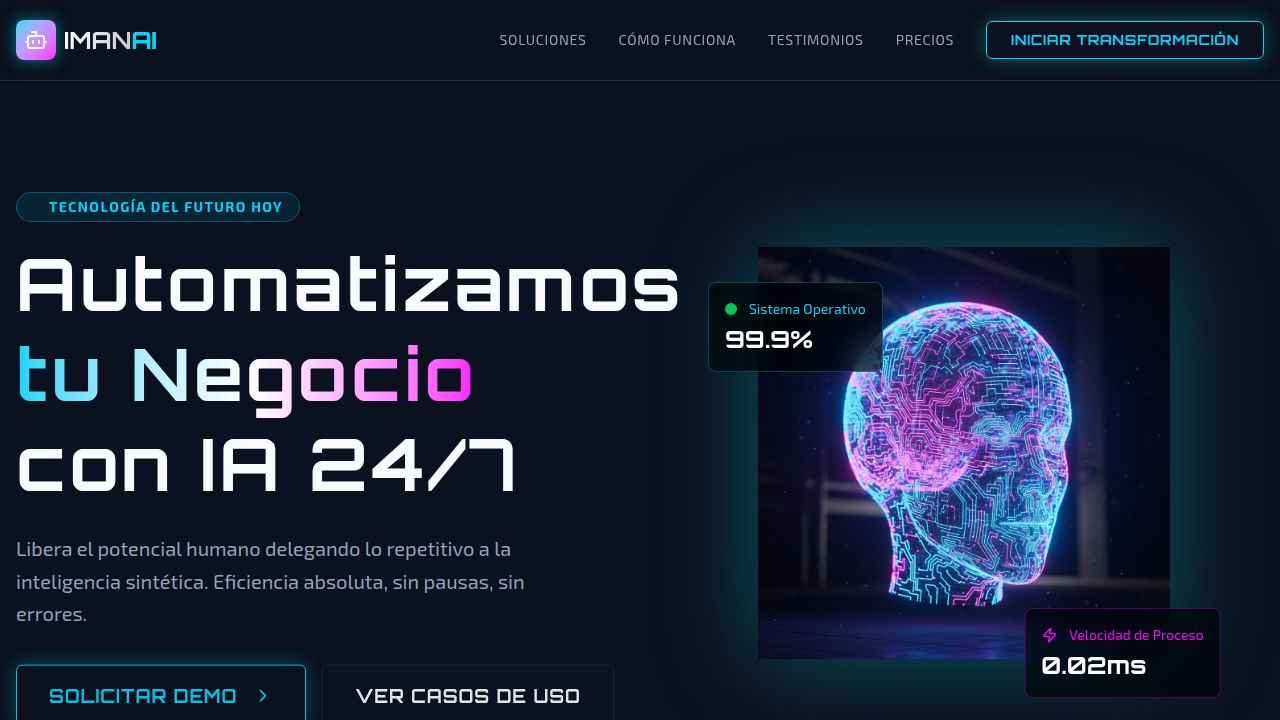
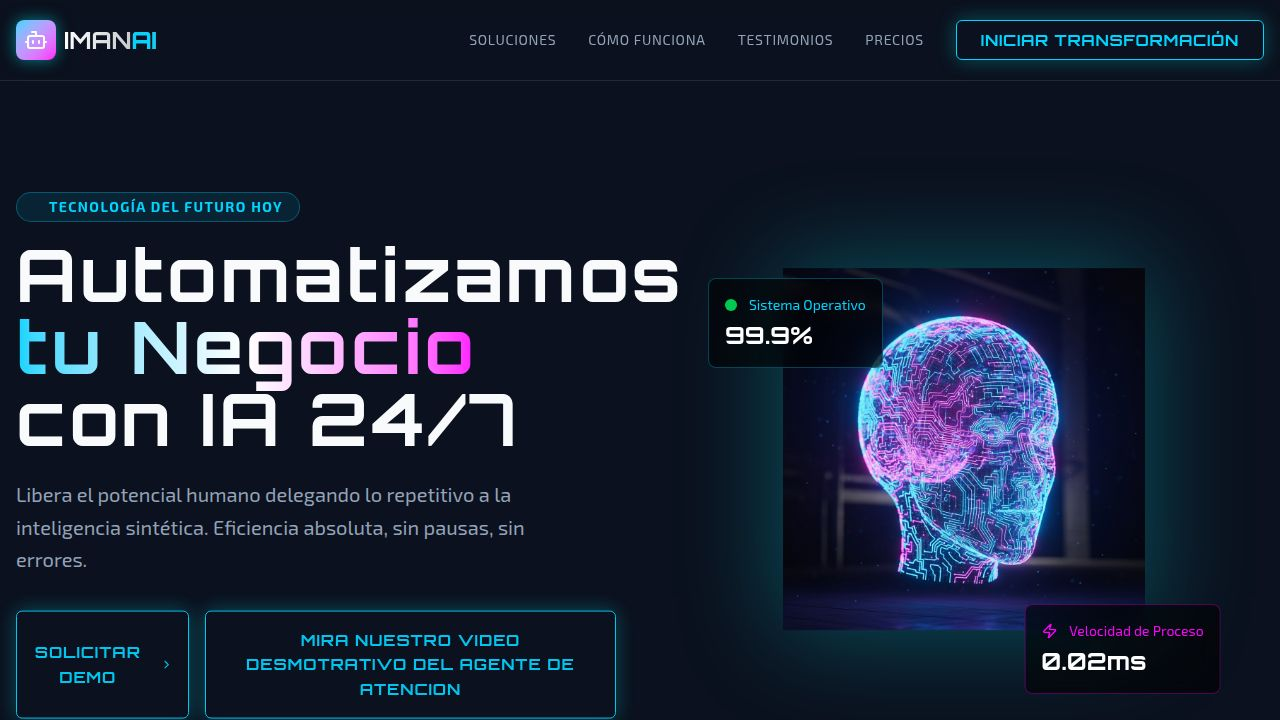
Update video button style to match demo request button
Modify the video demonstration button to use the primary variant, apply a glow effect, and set the text and border color to match the "Solicitar Demo" button for visual consistency.

Replit-Commit-Author: Agent
Replit-Commit-Session-Id: 33bf47c3-6097-45d1-8dc5-37cc8f671dde
Replit-Commit-Checkpoint-Type: full_checkpoint
Replit-Commit-Event-Id: 1374354d-286e-4602-94c0-e86b58528eb5
Replit-Commit-Screenshot-Url: https://storage.googleapis.com/screenshot-production-us-central1/5d4ed356-c746-4543-a47e-d1e9fe4ee1a0/33bf47c3-6097-45d1-8dc5-37cc8f671dde/m2j4B4i
Replit-Helium-Checkpoint-Created: true

diff --git a/client/src/pages/home.tsx b/client/src/pages/home.tsx
@@ -143,8 +143,9 @@ export default function Home() {
                 Solicitar Demo <ChevronRight className="ml-2 w-5 h-5" />
               </NeonButton>
               <NeonButton 
-                variant="outline" 
+                variant="primary" 
                 className="text-lg px-8 py-4"
+                glow
                 onClick={() => window.open("https://mnabbcmffeiwdazmqfut.supabase.co/storage/v1/object/sign/IMAN%20FOTOS%20Y%20VIDEOS/SVID_20250718_122805_1%20(1).mp4?token=eyJraWQiOiJzdG9yYWdlLXVybC1zaWduaW5nLWtleV8wMjc4MjcxMC1hYTAwLTRmMGQtOWRmMy1lOTNlZGVlMjBkY2EiLCJhbGciOiJIUzI1NiJ9.eyJ1cmwiOiJJTUFOIEZPVE9TIFkgVklERU9TL1NWSURfMjAyNTA3MThfMTIyODA1XzEgKDEpLm1wNCIsImlhdCI6MTc2NzU1NTE3MCwiZXhwIjo0OTIxMTU1MTcwfQ.50HJMhGEx_yMB6YT29PJSbi_npM3ixRXSb3ZUtKRxY8", "_blank")}
               >
                 mira nuestro video desmotrativo del Agente de atencion
